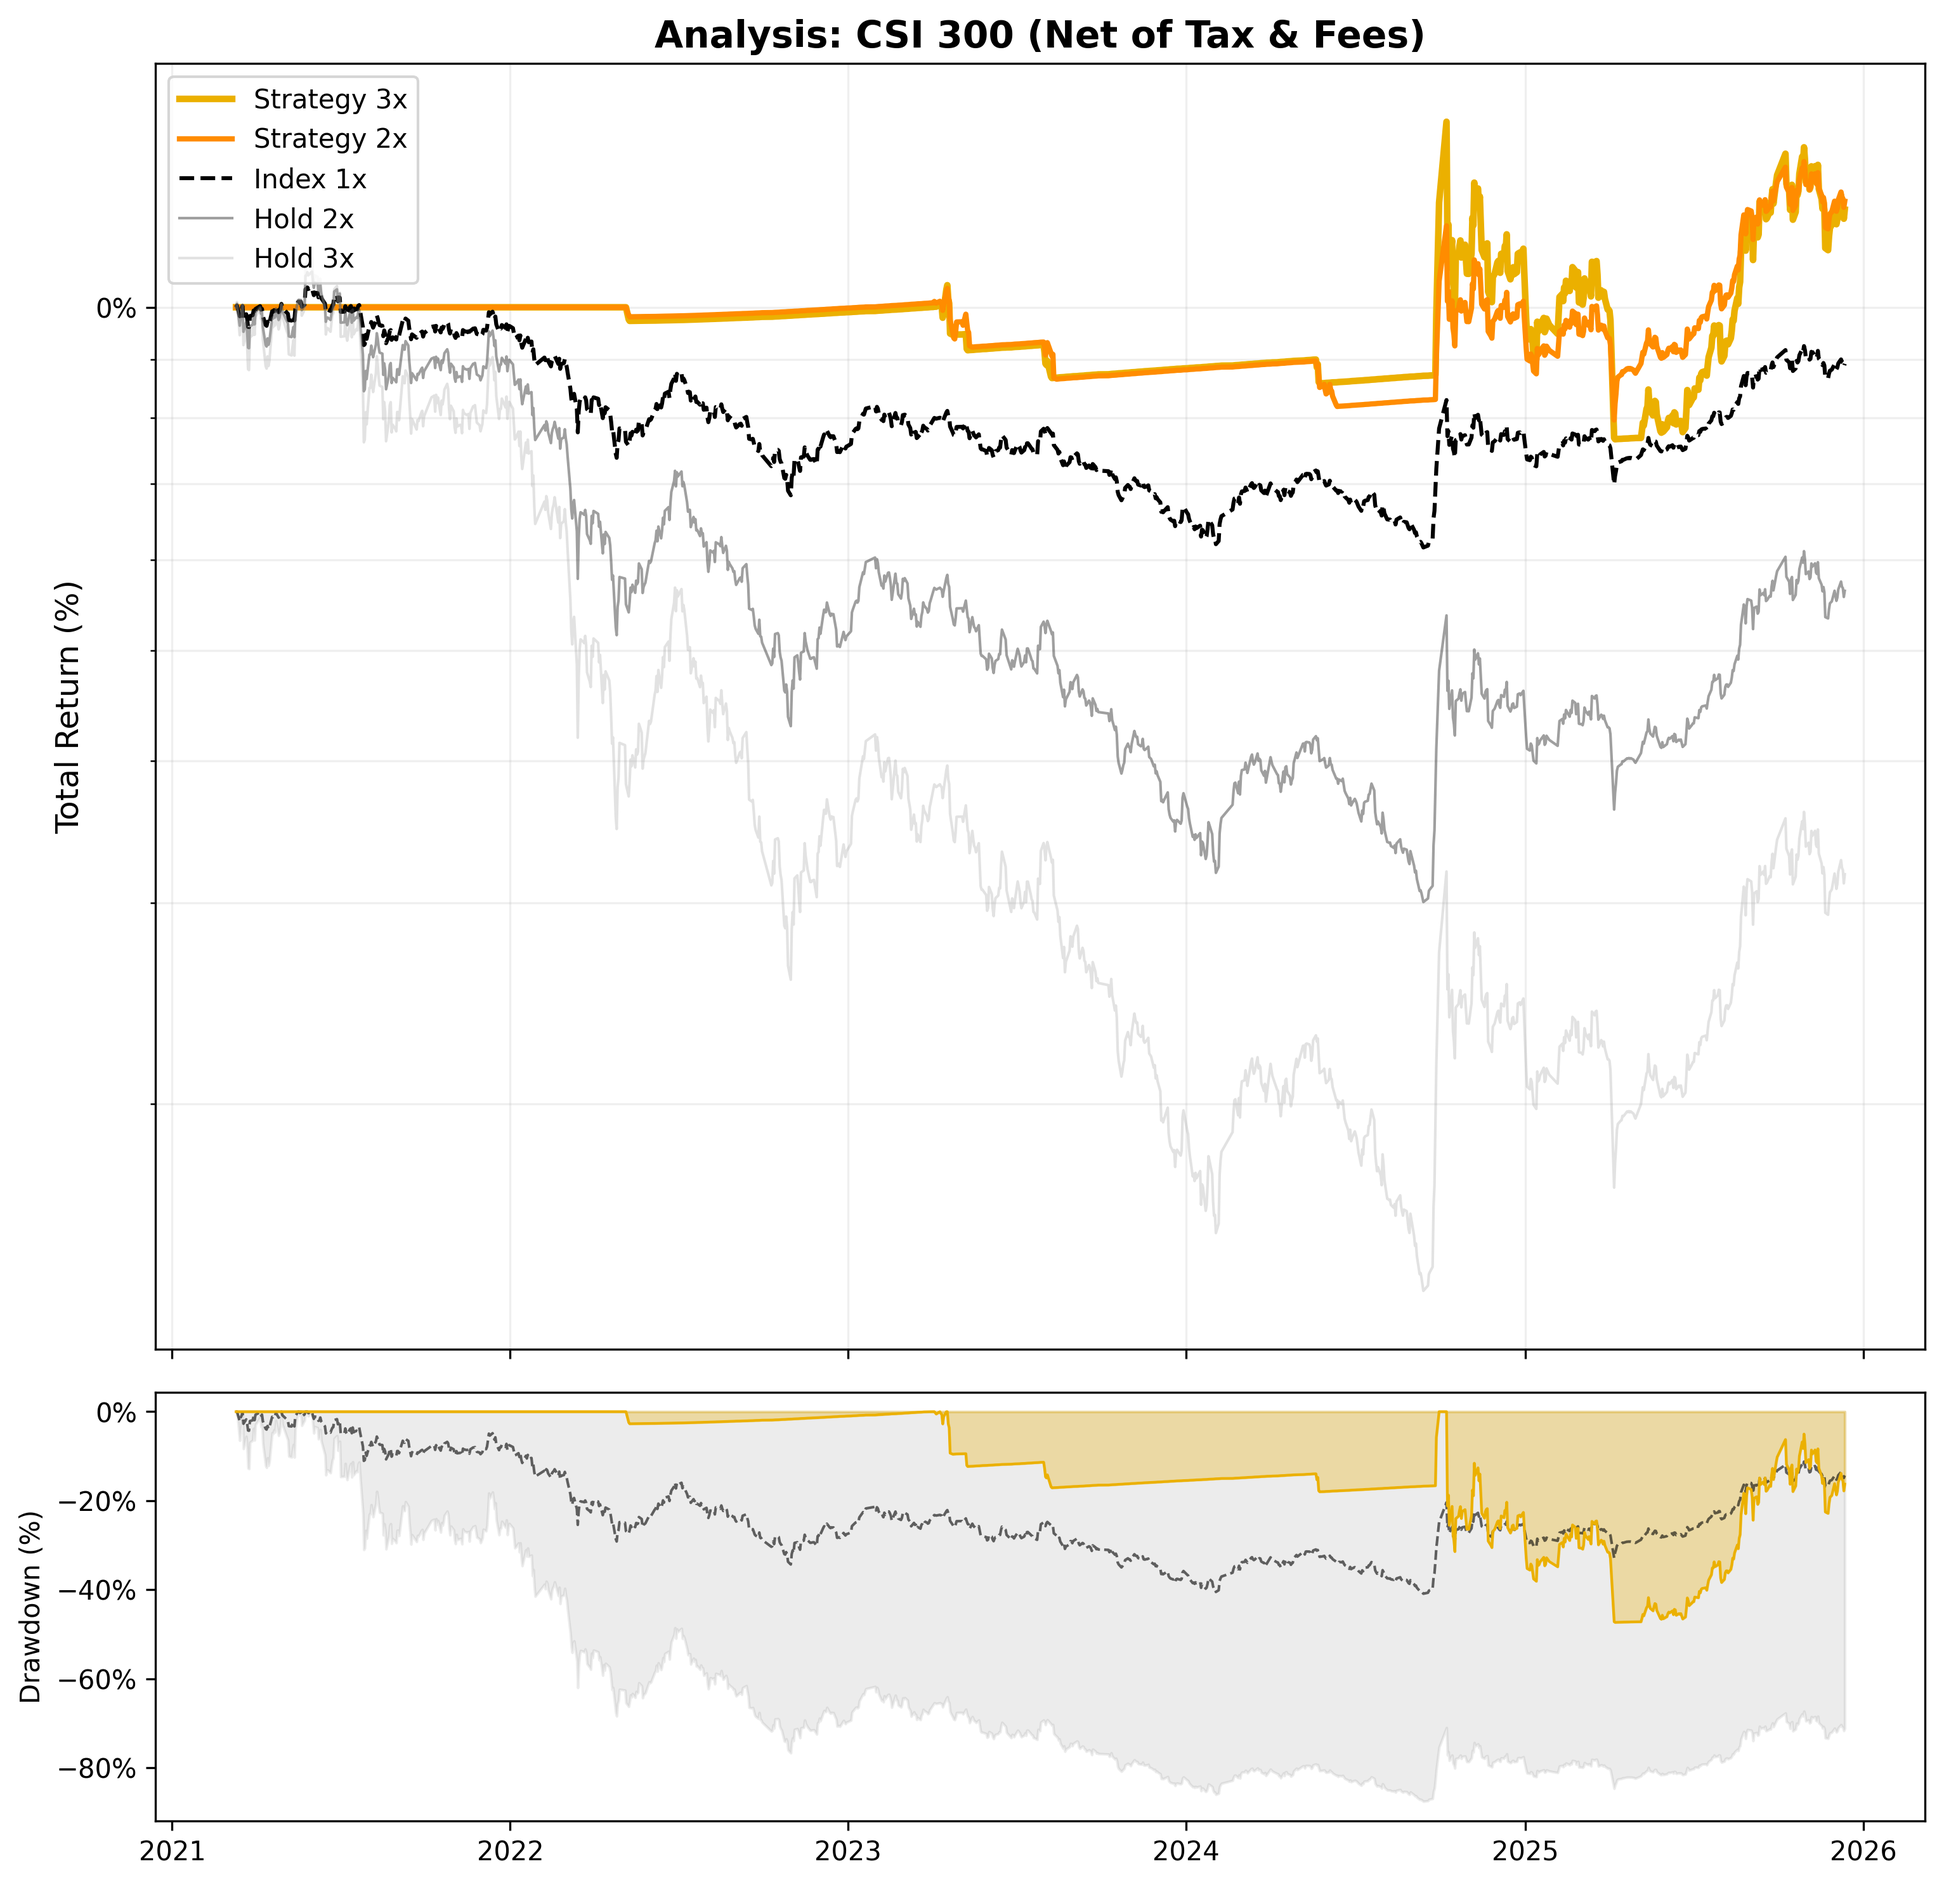
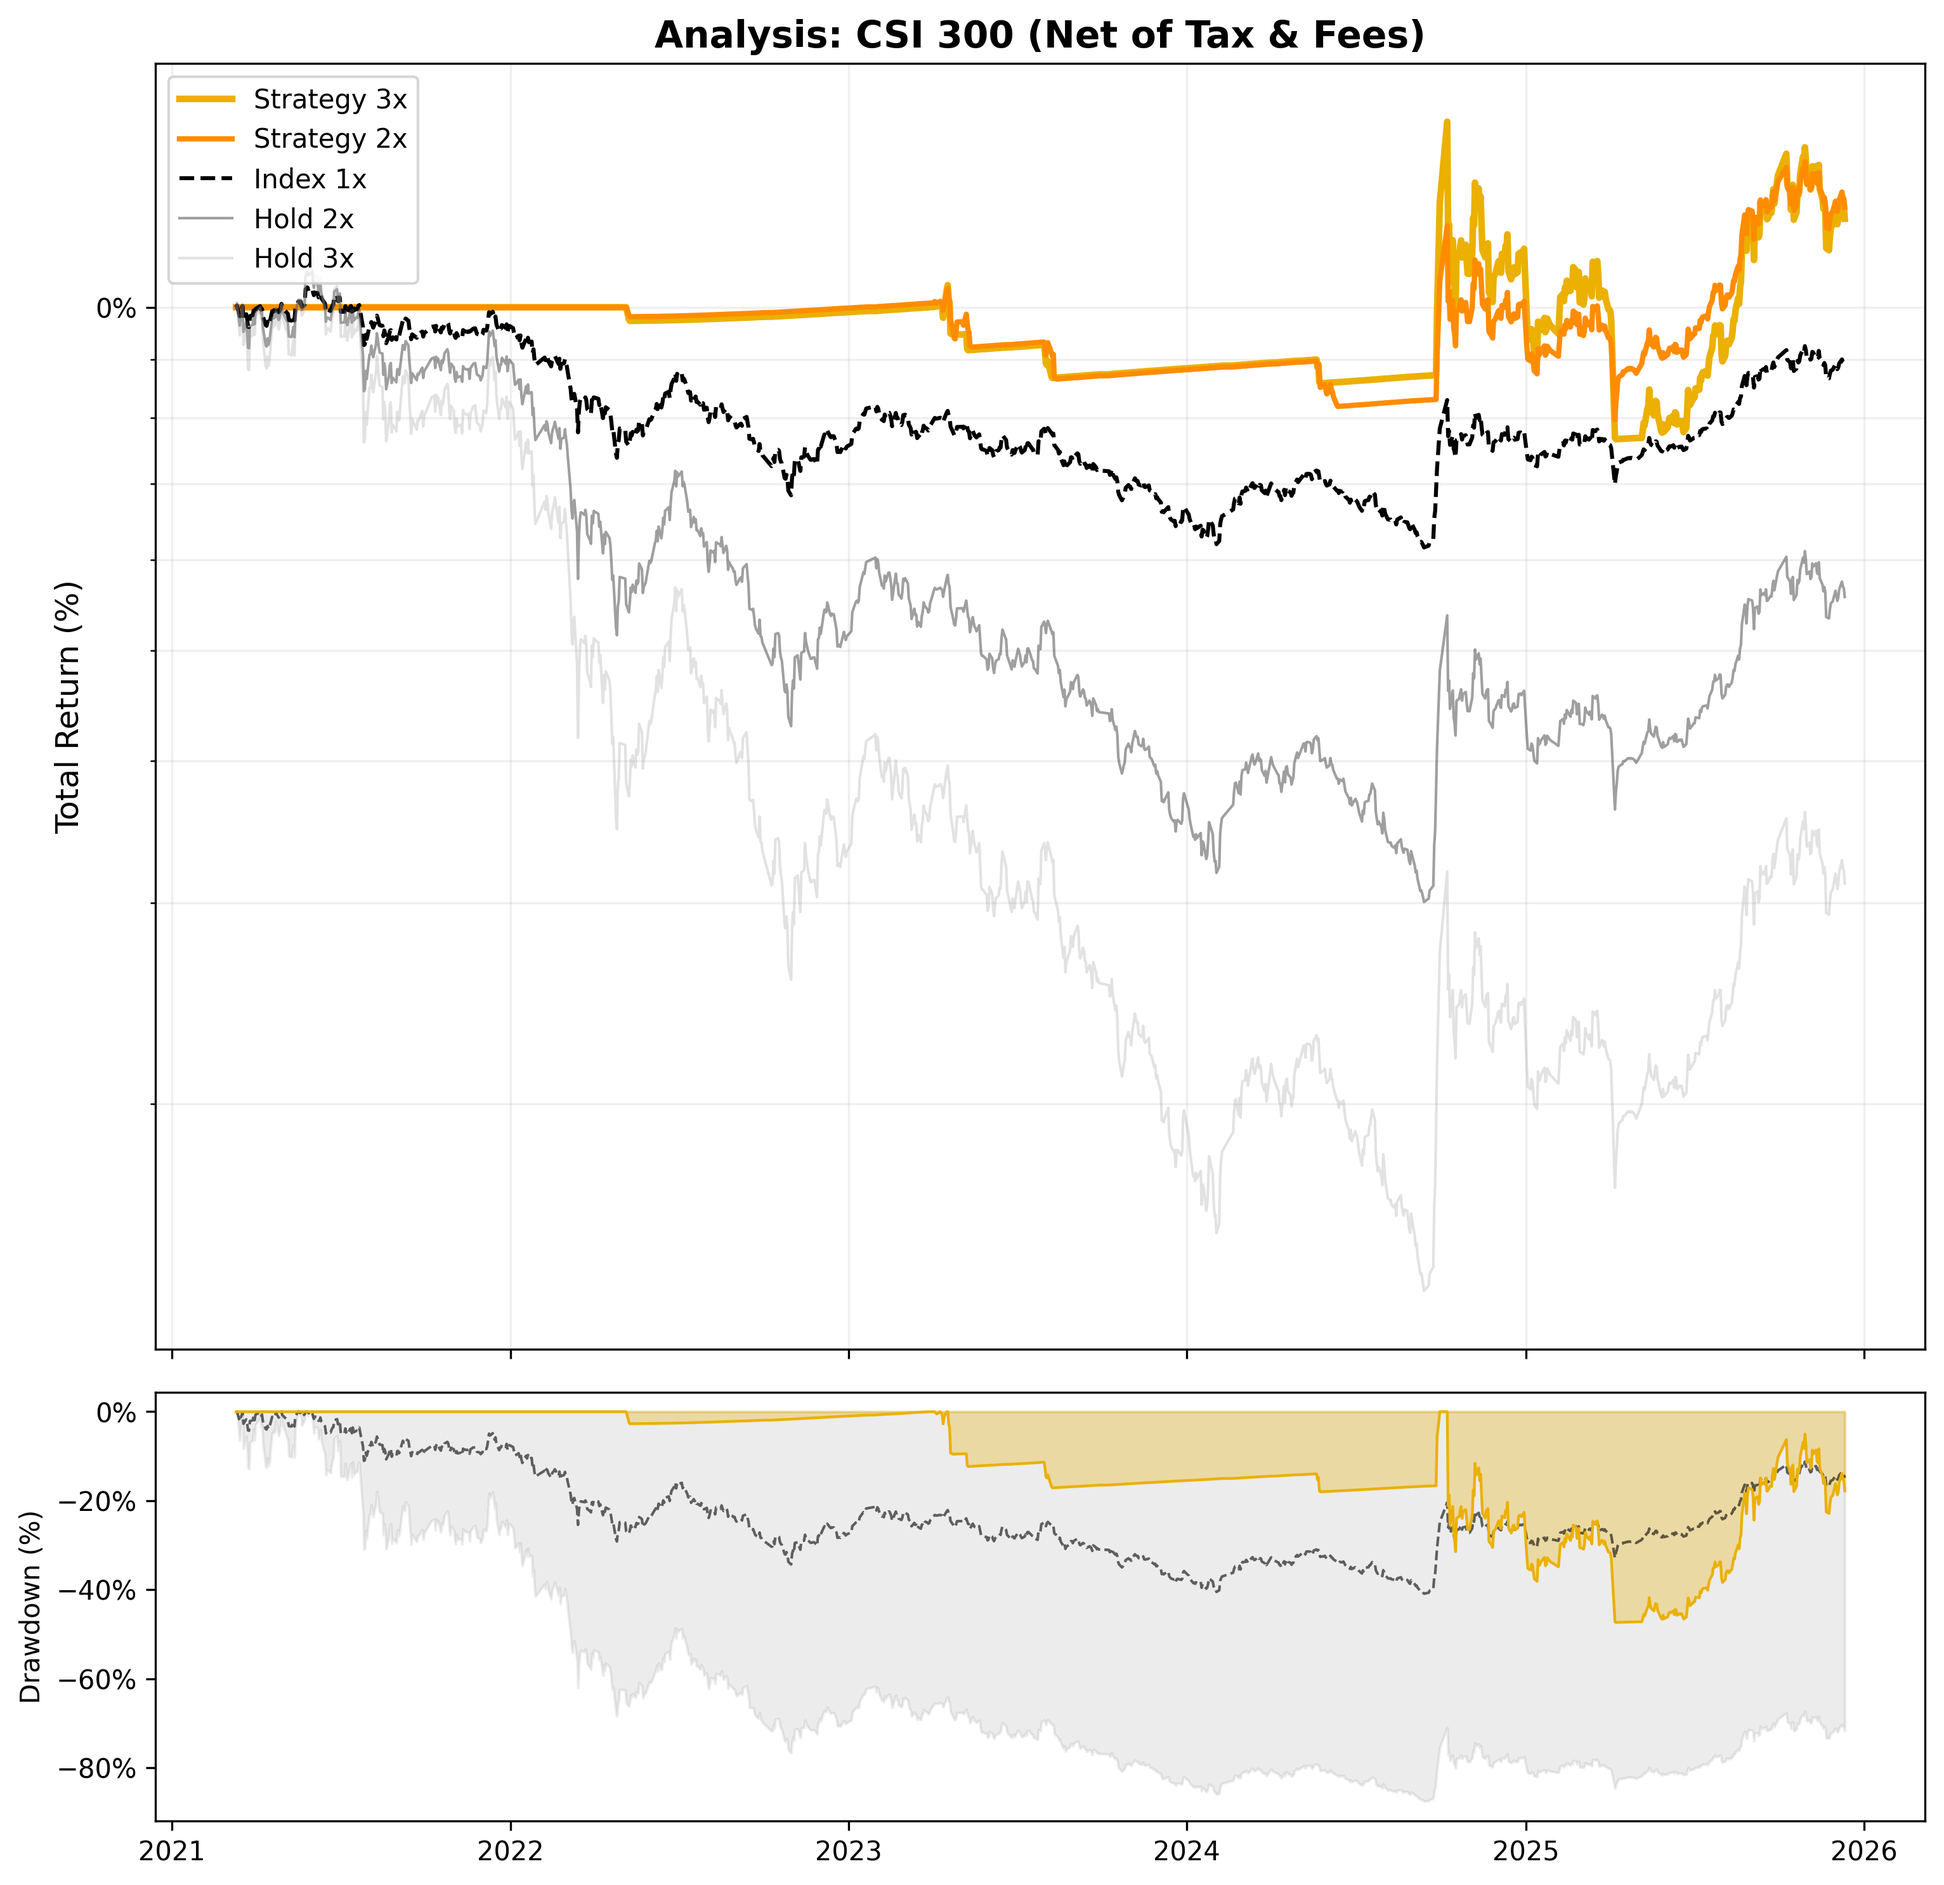
📊 Daily analysis update - 2025-12-15

diff --git a/examples/CSI_300.md b/examples/CSI_300.md
@@ -1,23 +1,23 @@
 # 📈 Strategy Report: CSI 300
 
-**Date:** 2025-12-14 06:18
+**Date:** 2025-12-15 06:22
 **Index:** 000300.SS
 **Settings:** Tax 27.500000000000004% | Spread 0.5% | Slip 0.2%
 
 ## 1. Performance (Net of Tax)
 | Strategy | Best Parameters | Total Return | CAGR | YTD Return | 3Y Return | 5Y Return | YTD CAGR | 3Y CAGR | 5Y CAGR | Max Drawdown |
 | :--- | :--- | :---: | :---: | :---: | :---: | :---: | :---: | :---: | :---: | :---: |
-| Strategy 3x | `SMA 270 / Buf 0.25% / SL 13%` | **22%** | **4.24%** | 25% | 24% | 22% | 26.39% | 6.96% | 4.24% | -47.35% 
-| Strategy 2x | `SMA 270 / Buf 2.5% / SL 15%` | 24% | 4.61% | 34% | 25% | 24% | 36.79% | 7.24% | 4.61% | -32.45%
-| Index 1x | - | -11% | -2.37% | 14% | 12% | -11% | 15.37% | 3.53% | -2.37% | -40.91% 
-| Index 2x | - | -44% | -11.35% | 25% | 3% | -44% | 26.61% | 0.82% | -11.35% | -72.03%
-| Index 3x | - | -68% | -21.41% | 35% | -14% | -68% | 37.38% | -4.55% | -21.41% | -87.58% 
+| Strategy 3x | `SMA 270 / Buf 0.25% / SL 13%` | **20%** | **3.84%** | 22% | 22% | 20% | 24.02% | 6.36% | 3.84% | -47.35% 
+| Strategy 2x | `SMA 270 / Buf 2.5% / SL 15%` | 22% | 4.34% | 33% | 24% | 22% | 35.13% | 6.84% | 4.34% | -32.45%
+| Index 1x | - | -11% | -2.50% | 14% | 9% | -11% | 14.83% | 2.81% | -2.50% | -40.91% 
+| Index 2x | - | -44% | -11.59% | 24% | -2% | -44% | 25.40% | -0.75% | -11.59% | -72.03%
+| Index 3x | - | -69% | -21.72% | 33% | -22% | -69% | 35.38% | -7.21% | -21.72% | -87.58% 
 
-## 2. Current Status (2025-12-12)
+## 2. Current Status (2025-12-11)
 | Strategy | Phase | Profit | Days | Analysis | Action |
 | :--- | :---: | :---: | :---: | :--- | :---: |
-| Strategy 3x | LONG | +59.10% | 220 | `SAFETY: 9.83%` | **HOLD** |
-| Strategy 2x | LONG | +49.71% | 442 | `SAFETY: 12.65%` | **HOLD** |
+| Strategy 3x | LONG | +56.19% | 219 | `SAFETY: 9.26%` | **HOLD** |
+| Strategy 2x | LONG | +47.87% | 441 | `SAFETY: 12.15%` | **HOLD** |
 
 ## 3. Visualization
 ![Chart](CSI_300.png)

diff --git a/examples/EuroStoxx_50.md b/examples/EuroStoxx_50.md
@@ -1,6 +1,6 @@
 # 📈 Strategy Report: EuroStoxx 50
 
-**Date:** 2025-12-14 06:18
+**Date:** 2025-12-15 06:22
 **Index:** ^STOXX50E
 **Settings:** Tax 27.500000000000004% | Spread 0.5% | Slip 0.2%
 

diff --git a/examples/MSCI_World.md b/examples/MSCI_World.md
@@ -1,6 +1,6 @@
 # 📈 Strategy Report: MSCI World
 
-**Date:** 2025-12-14 06:18
+**Date:** 2025-12-15 06:22
 **Index:** URTH
 **Settings:** Tax 27.500000000000004% | Spread 0.5% | Slip 0.2%
 

diff --git a/examples/Nasdaq_100.md b/examples/Nasdaq_100.md
@@ -1,6 +1,6 @@
 # 📈 Strategy Report: Nasdaq 100
 
-**Date:** 2025-12-14 06:17
+**Date:** 2025-12-15 06:20
 **Index:** ^NDX
 **Settings:** Tax 27.500000000000004% | Spread 0.5% | Slip 0.2%
 

diff --git a/examples/DAX_40.md b/examples/DAX_40.md
@@ -1,6 +1,6 @@
 # 📈 Strategy Report: DAX 40
 
-**Date:** 2025-12-14 06:18
+**Date:** 2025-12-15 06:21
 **Index:** ^GDAXI
 **Settings:** Tax 27.500000000000004% | Spread 0.5% | Slip 0.2%
 

diff --git a/examples/S&P_500.md b/examples/S&P_500.md
@@ -1,6 +1,6 @@
 # 📈 Strategy Report: S&P 500
 
-**Date:** 2025-12-14 06:17
+**Date:** 2025-12-15 06:21
 **Index:** ^GSPC
 **Settings:** Tax 27.500000000000004% | Spread 0.5% | Slip 0.2%
 
